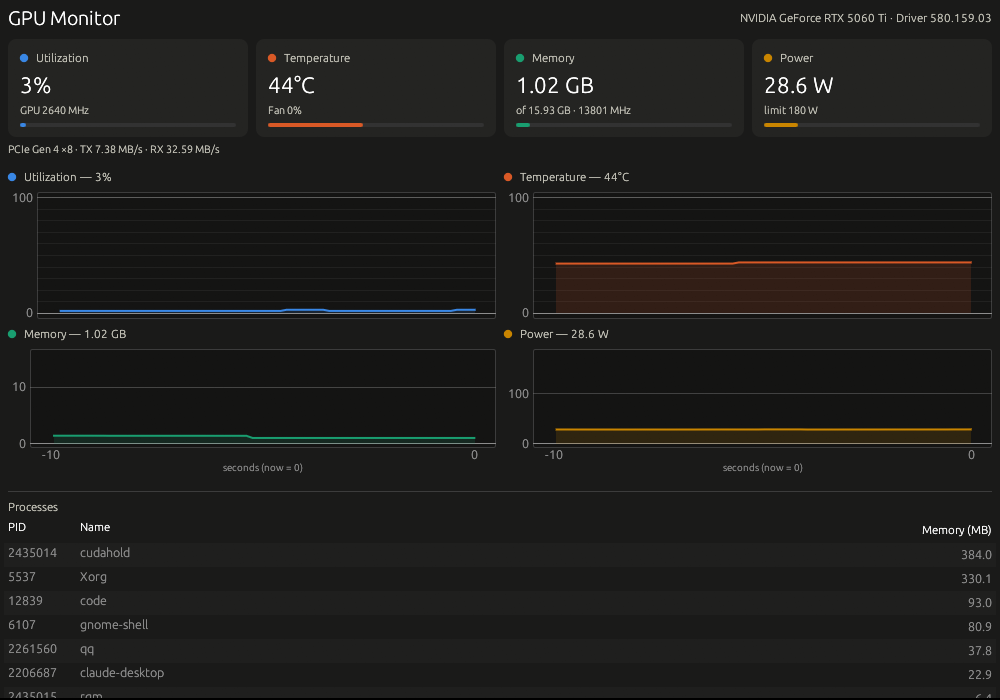
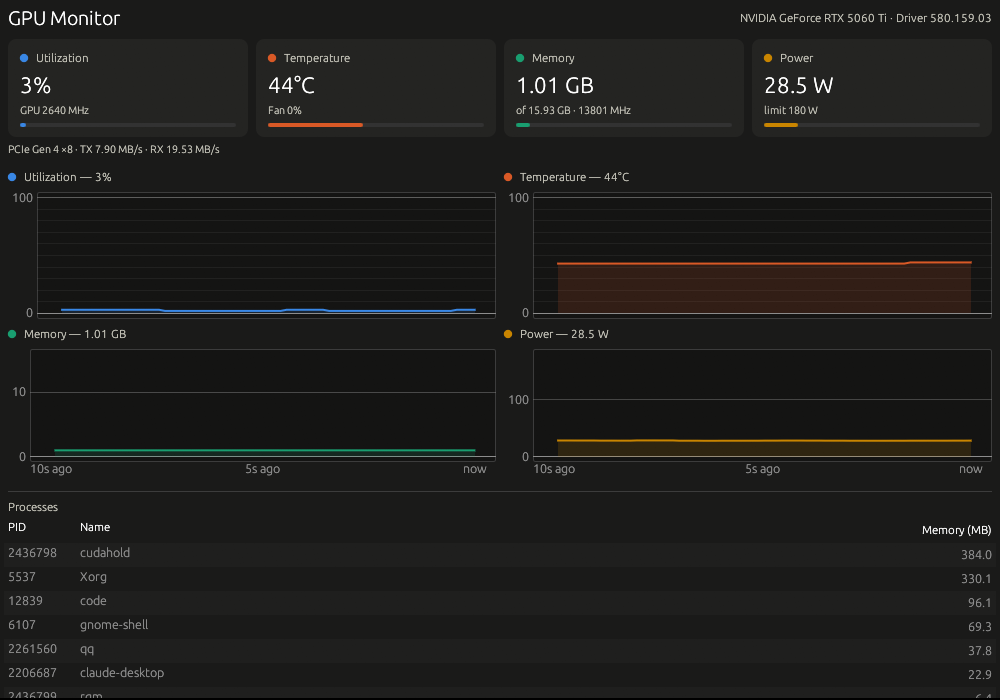
feat(ui): label the time axis 10s ago / 5s ago / now
Negative second ticks (-10..0) made the scroll direction read as
backwards at a glance. Fixed marks with plain-language labels state it:
history slides left, fresh data enters at the right edge — the
convention monitoring tools follow. Screenshot and its alt text
refreshed to match the redesigned dashboard.

diff --git a/src/app.rs b/src/app.rs
@@ -297,7 +297,23 @@ impl RgmApp {
             plot = plot.include_y(m);
         }
         if show_x_label {
-            plot = plot.x_axis_label(RichText::new("seconds (now = 0)").size(10.0));
+            plot = plot
+                .x_grid_spacer(|_input| {
+                    [-10.0, -5.0, 0.0]
+                        .iter()
+                        .map(|&value| egui_plot::GridMark {
+                            value,
+                            step_size: 5.0,
+                        })
+                        .collect()
+                })
+                .x_axis_formatter(|mark, _range| {
+                    if mark.value >= -0.01 {
+                        "now".to_string()
+                    } else {
+                        format!("{:.0}s ago", -mark.value)
+                    }
+                });
         }
         plot.show(ui, |plot_ui| {
             plot_ui.line(

diff --git a/README.md b/README.md
@@ -5,7 +5,7 @@
 
 A lightweight GPU monitoring utility built with Rust and egui. Supports **NVIDIA** (via NVML) and **AMD** (via sysfs/hwmon, including integrated GPUs). Simple, fast, and reliable.
 
-![RGM monitoring an NVIDIA GPU: live stats, four-series metrics plot, and the GPU process table](assets/screenshot.png)
+![RGM monitoring an NVIDIA GPU: stat cards, per-metric sparklines, and the GPU process table](assets/screenshot.png)
 
 ## Features
 
